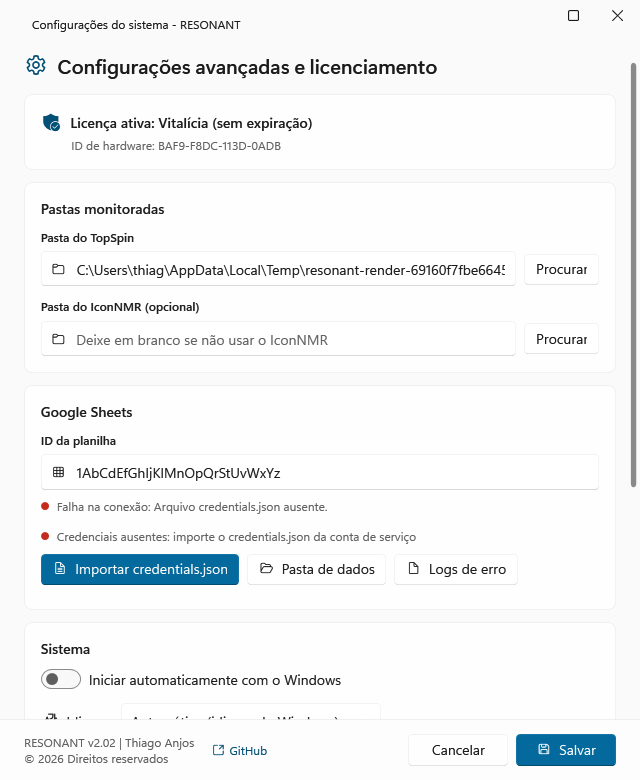
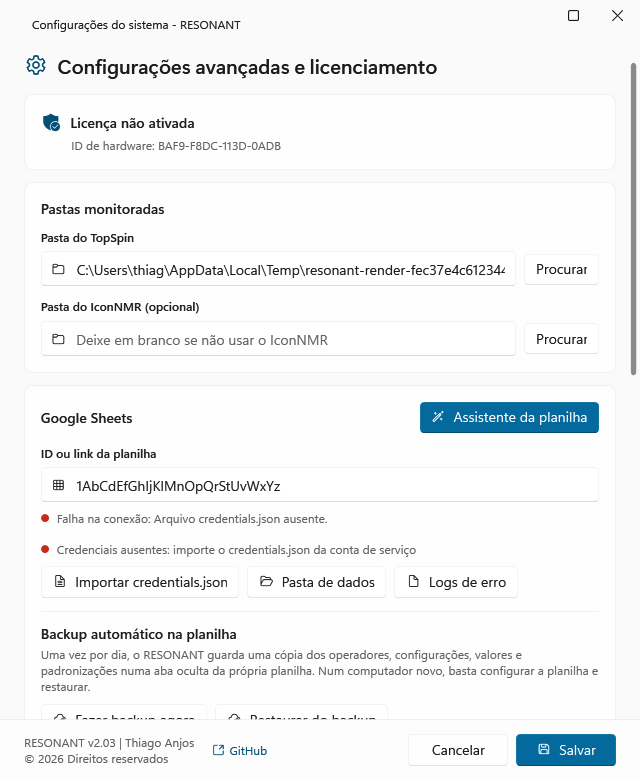
Telas e destaques da versão 2.03

diff --git a/README.md b/README.md
@@ -44,6 +44,9 @@ O **RESONANT** acompanha em tempo real as análises feitas no espectrômetro de 
 - 📊 **Total de análises no mês** e **total geral**.
 - 🕒 **Saída de turno agendada**, por tempo ou ao fim da fila do espectrômetro.
 - 🗂 **Histórico completo**, com busca, filtros, exportação para Excel e sincronização.
+- 📈 **Painel de uso** com gráficos: análises por dia e semana, por núcleo, por instituição, horários de pico e ocupação do espectrômetro.
+- 🧾 **Relatórios mensais e anuais** em Excel, separados entre instituição interna e externas, com tempo de máquina e valores por tipo de análise.
+- 🔐 **Senha de administrador protegida pelo Windows** e **backup automático** na própria planilha do Google.
 - 🌗 **Visual do Windows 11**, com tema claro e escuro e em **português ou inglês**.
 - 🔄 **Atualizações automáticas e seguras**, com assinatura digital conferida antes de instalar.
 
@@ -64,6 +67,9 @@ O **RESONANT** acompanha em tempo real as análises feitas no espectrômetro de 
 - 📊 **Analyses this month** and **all-time total**.
 - 🕒 **Scheduled shift end**, after a set time or when the spectrometer queue finishes.
 - 🗂 **Full history**, with search, filters, Excel export and synchronization.
+- 📈 **Usage dashboard** with charts: analyses per day and week, per nucleus, per institution, peak hours and spectrometer occupancy.
+- 🧾 **Monthly and annual reports** in Excel, split between the internal institution and external ones, with machine time and prices per analysis type.
+- 🔐 **Administrator password protected by Windows** and **automatic backup** in the Google spreadsheet itself.
 - 🌗 **Windows 11 look**, with light and dark themes, in **Portuguese or English**.
 - 🔄 **Safe automatic updates**: the digital signature is verified before installing.
 
@@ -76,6 +82,10 @@ O **RESONANT** acompanha em tempo real as análises feitas no espectrômetro de 
 | <img src="docs/images/main-logged-pt-light.png" width="420"> | <img src="docs/images/main-logged-en-dark.png" width="420"> |
 | **Histórico** | **History** |
 | <img src="docs/images/history-pt-light.png" width="420"> | <img src="docs/images/history-en-dark.png" width="420"> |
+| **Painel de uso** | **Usage dashboard** |
+| <img src="docs/images/dashboard-pt-light.png" width="420"> | <img src="docs/images/dashboard-en-dark.png" width="420"> |
+| **Ranking do mês** | **Activation** |
+| <img src="docs/images/main-ranking-pt-dark.png" width="420"> | <img src="docs/images/activation-en-light.png" width="420"> |
 | **Configurações** | **Settings** |
 | <img src="docs/images/settings-pt-light.png" width="420"> | <img src="docs/images/settings-en-dark.png" width="420"> |
 
